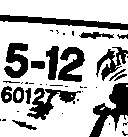
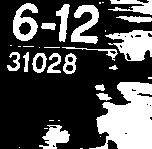
add a simple function for noise removal, and fix all warnings

diff --git a/src/Lego.py b/src/Lego.py
@@ -16,8 +16,8 @@ class Lego(object):
         self._logo_box = None
 
         # Parameters
-        self.MIN_MATCH_COUNT = 6
-        self.MAX_MATCH_COUNT = 10
+        self.MIN_MATCH_COUNT = 4
+        self.MAX_MATCH_COUNT = 30
 
         # Flags
         self._has_rotated_image = False
@@ -48,9 +48,9 @@ class Lego(object):
         # Threshold the HSV image to get only red colors
         mask1 = cv2.inRange(hsv, lower_red1, upper_red1)
         mask2 = cv2.inRange(hsv, lower_red2, upper_red2)
-        mask = mask1 + mask2
+        self._mask = mask1 + mask2
 
-        _, contours, _ = cv2.findContours(mask, cv2.RETR_LIST, cv2.CHAIN_APPROX_SIMPLE)
+        _, contours, _ = cv2.findContours(self._mask, cv2.RETR_LIST, cv2.CHAIN_APPROX_SIMPLE)
         contours = sorted(contours, key=cv2.contourArea, reverse=True)
         new_contours = []
         for idx, contour in enumerate(contours):
@@ -109,7 +109,7 @@ class Lego(object):
             except:
                 pass
 
-            # the keypoints matched within certain ranges.
+            # the key-points matched within certain ranges.
             if (len(good_matches) >= self.MIN_MATCH_COUNT) & (len(good_matches) <= self.MAX_MATCH_COUNT):
                 src_pts = np.float64([kp1[m.queryIdx].pt for m in good_matches]).reshape(-1, 1, 2)
                 dst_pts = np.float64([kp2[m.trainIdx].pt for m in good_matches]).reshape(-1, 1, 2)
@@ -134,14 +134,16 @@ class Lego(object):
             height, weight, _ = self._logo.shape
 
             cropst = np.array([self._logo_center_y+height/2, self._logo_center_x-weight/2])
-            croped = np.array([self._logo_center_y+height, self._logo_center_x+weight/2])
+            croped = np.array([self._logo_center_y+height+height/2, self._logo_center_x+weight/2])
 
             if (cropst[0]>0) & (cropst[1]>0) & (croped[0]<ylimit) & (croped[1]<xlimit):
                 img = self._rotated_image[cropst[0]:croped[0], cropst[1]:croped[1]]
 
                 gray = cv2.cvtColor(img, cv2.COLOR_BGR2GRAY)
-                _, threshold_image = cv2.threshold(gray,0,255,cv2.THRESH_BINARY_INV+cv2.THRESH_OTSU)
-                self._information = threshold_image
+                _, thresh = cv2.threshold(gray,0,255,cv2.THRESH_BINARY_INV+cv2.THRESH_OTSU)
+                kernel = np.ones((2,2),np.uint8)
+                thresh = cv2.morphologyEx(thresh,cv2.MORPH_CLOSE,kernel, iterations = 2)
+                self._information = thresh
                 self._has_information = True
 
     def _get_rotated_image(self):
@@ -159,7 +161,7 @@ class Lego(object):
             self._has_rotated_image = True
 
     def get_logo_box(self):
-        if self._has_valid_logo:
+        if self._has_potential_logo:
             return self._logo_box
         else:
             return None

diff --git a/src/video.py b/src/video.py
@@ -21,15 +21,13 @@ while 1:
 
     cv2.drawContours(frame, [logo_box], -1, (0, 255, 0), 2)
 
-        # cv2.imwrite('info.jpg',info)
-        # img = Image.open('info.jpg')
-        # tr = Tesseract(datadir='../tessdata', lang='eng')
-        # text = tr.ocr_image(img)
-        # print(text)
-
-
     if l._has_information:
         cv2.imshow('info', info)
+        cv2.imwrite('info.jpg',info)
+        img = Image.open('info.jpg')
+        tr = Tesseract(datadir='../tessdata', lang='eng')
+        text = tr.ocr_image(img)
+        print(text)
     # if l._has_rotated_image:
     #     img = l._rotated_image
     #     img[l._logo_center_y:l._logo_center_y+3, l._logo_center_x:l._logo_center_x+3, :] = [255, 255, 255]
@@ -37,9 +35,6 @@ while 1:
     # if l._has_potential_logo:
     #     cv2.imshow('logo', l.get_logo_image())
 
-    # print(l._logo.shape)
-    # if l._has_rotate_angle:
-    #     frame[l._logo_center_y:l._logo_center_y+3, l._logo_center_x:l._logo_center_x+3, :] = [255, 255, 255]
     cv2.imshow('frame', frame)
     if cv2.waitKey(1) & 0xFF == 27:
         break
